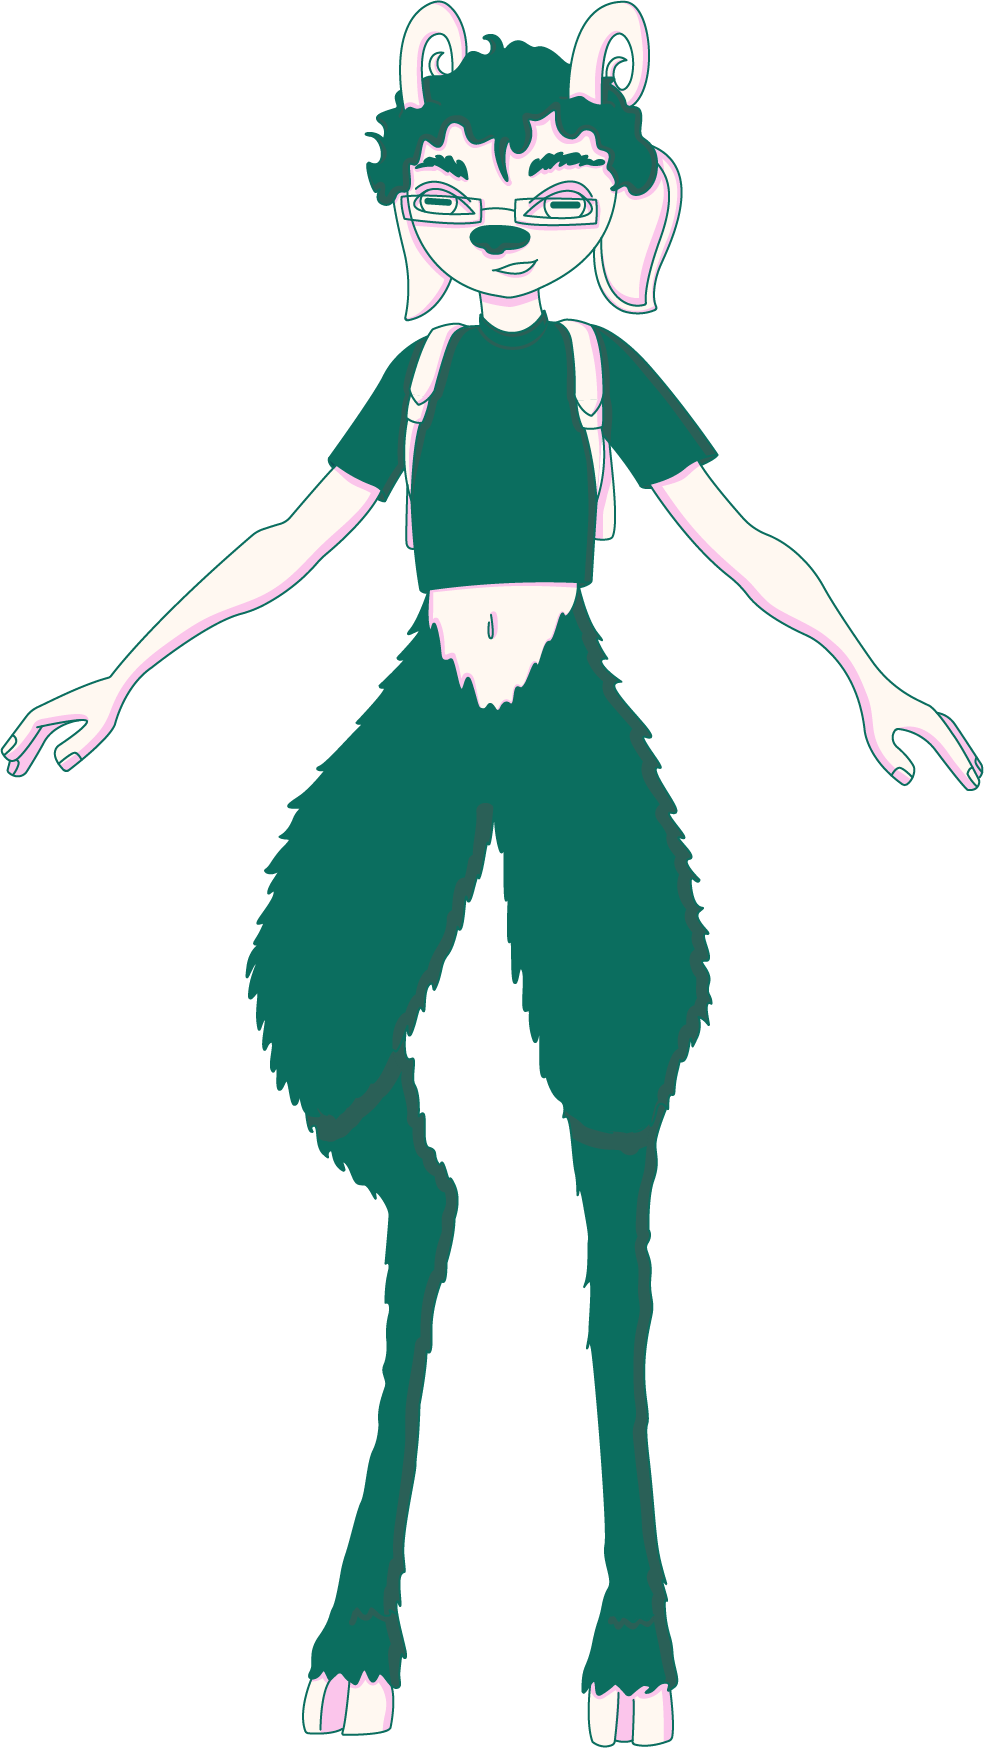
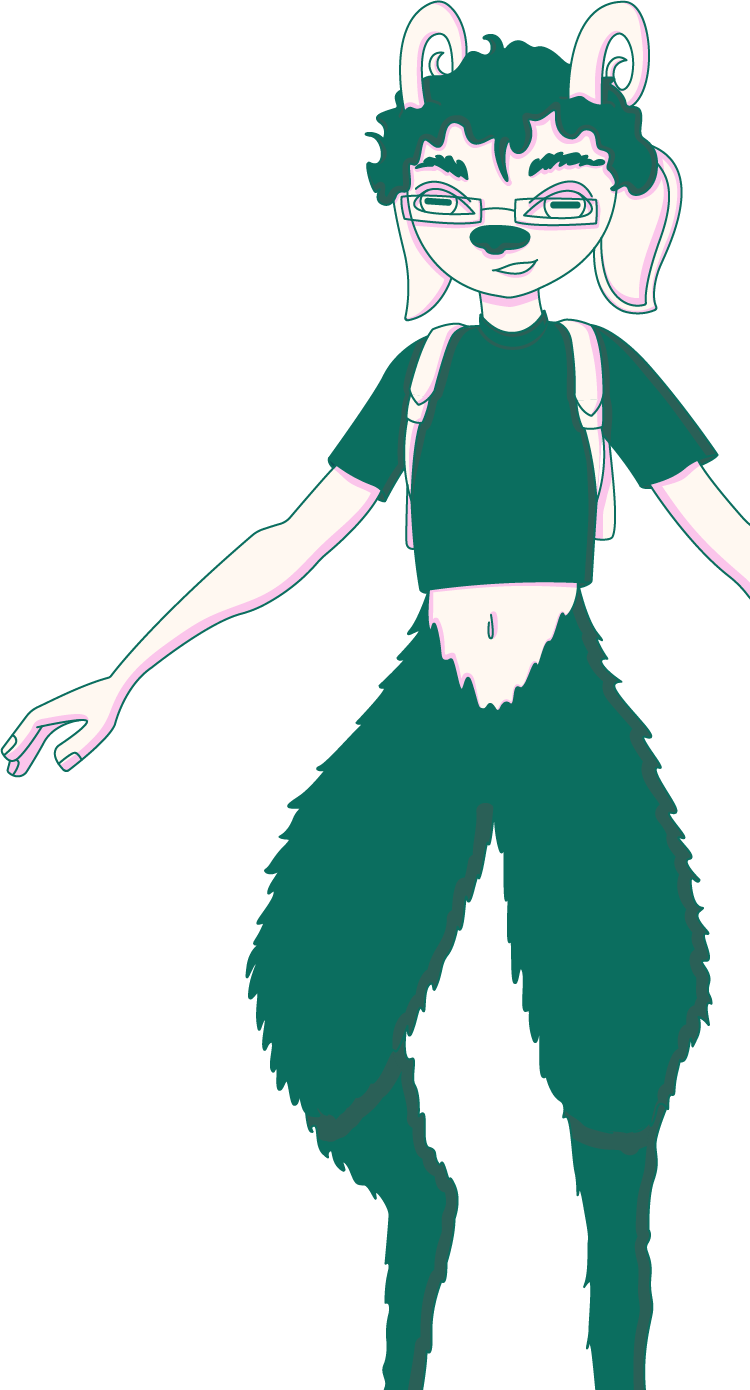
Nouvelles modifs de responsive

diff --git a/herisson/public/css/styleMain.css b/herisson/public/css/styleMain.css
@@ -20,15 +20,15 @@ body
 {
     text-align: right;
     width: 60vw;
-    font-size: 3.3vh;
+    font-size: 3vh;
     color: #0B6E5F;
     font-family: 'Covered By Your Grace', cursive;
 }
 
 #elie
 {
-    width: 93vw;
-    height: 100vh;
+    /*width: 93vw;*/
+    height: 75vh;
 }
 
 .texte-Elie p
@@ -38,10 +38,10 @@ body
 
 .mascotte {
     /*bottom: -400px;*/
-    /*right: -250vw;*/
-    bottom: -25vh;
-    right: -22vw;
-    position: fixed;
+    right: 0;
+    bottom: 0;
+    /*right: -22vw;*/
+    position: absolute;
     z-index: -1;
 }
 
@@ -54,7 +54,7 @@ body
 #ligneDialogue
 {
     width: 55vw;
-    height: 2vh;
+    /*height: 2vh;*/
 }
 
 .search
@@ -120,7 +120,7 @@ input[type="text"]
     border: none;
     cursor: pointer;
     width: 10vw;
-    height: 8vh;
+    /*height: 8vh;*/
     position: absolute;
     padding-top: 7vh;
 }

diff --git a/herisson/public/js/menuPopup.js b/herisson/public/js/menuPopup.js
@@ -15,7 +15,7 @@ imgLogo.style.position = "absolute";
 imgLogo.style.top = "2vh";
 imgLogo.style.left = "5vw";
 imgLogo.style.zIndex = "2";
-imgLogo.style.width = "25vw";
+// imgLogo.style.width = "25vw";
 imgLogo.style.height = "3vh";
 
 
@@ -29,7 +29,7 @@ imgMenuBurger.style.position = "absolute";
 imgMenuBurger.style.top = "2vh";
 imgMenuBurger.style.right = "5vw";
 imgMenuBurger.style.zIndex = "2";
-imgMenuBurger.style.width = "5vw";
+// imgMenuBurger.style.width = "5vw";
 imgMenuBurger.style.height = "2.75vh";
 
 divIconeHeader.appendChild(lienLogo);

diff --git a/herisson/public/css/menu.css b/herisson/public/css/menu.css
@@ -32,6 +32,7 @@
     background-color: #FFF8F1;
     height: 100%;
     z-index: 1;
+    width: 100%;
 }
 
 .texteFinMenu
